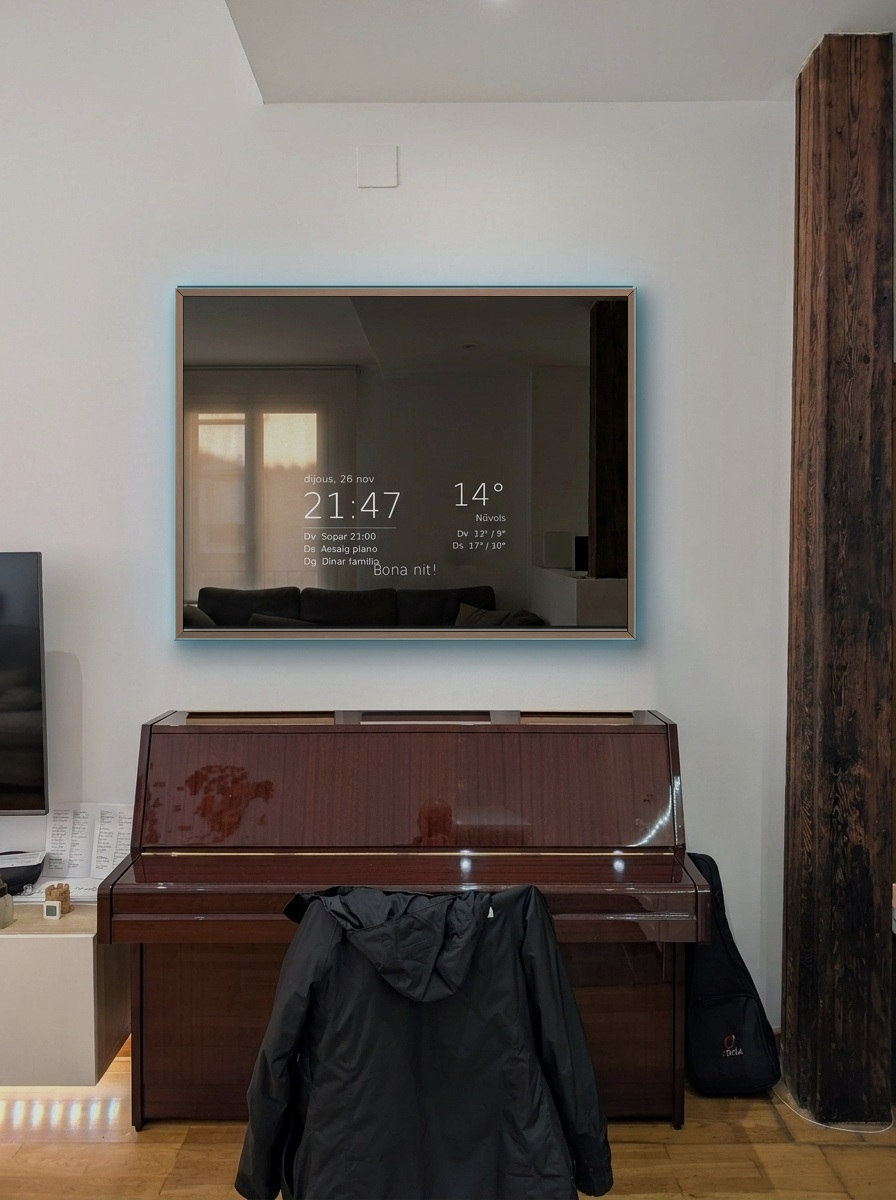
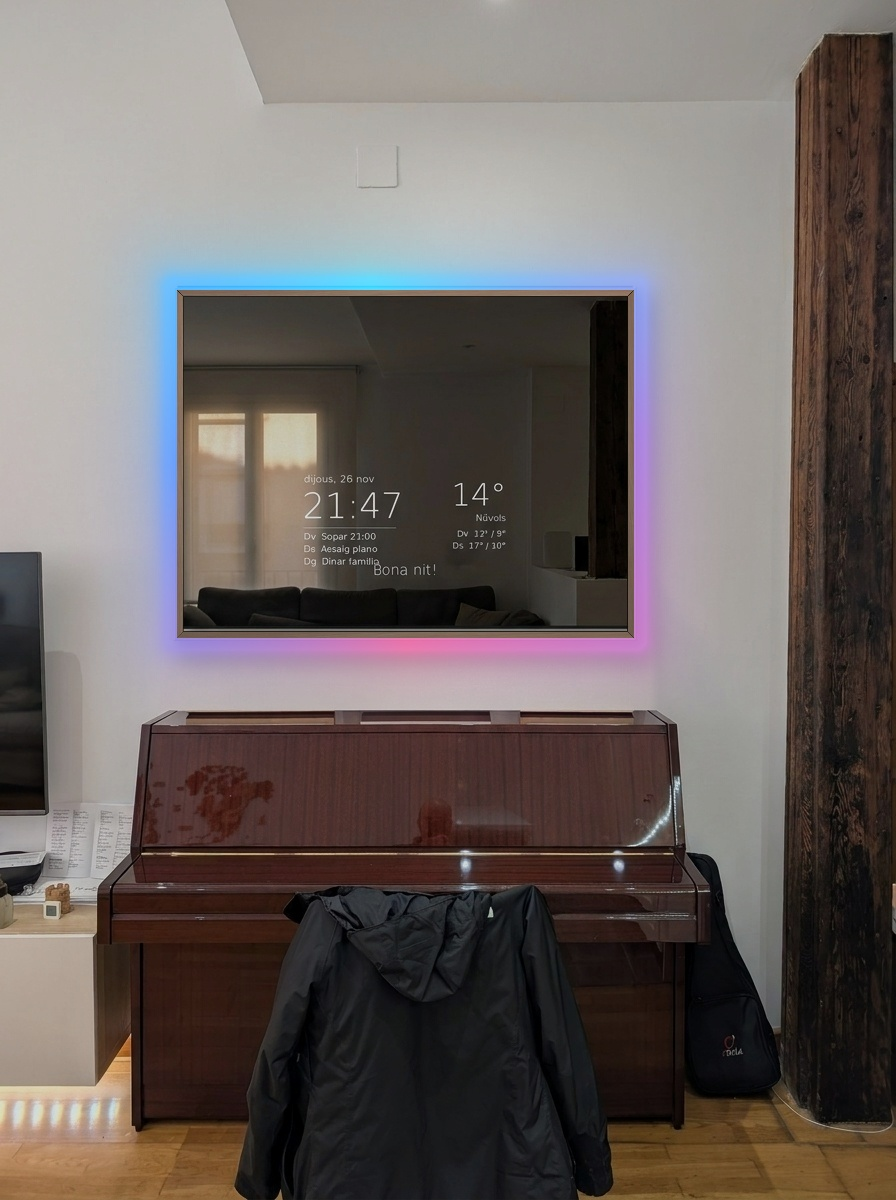
Upgrade AI Thinking halo to Gemini-style orbiting multicolor aura (WLED Colorwaves + 3D + room preview)

Changed region(s): [[0.1562, 0.2158, 0.75, 0.5858]]

diff --git a/build_plan.html b/build_plan.html
@@ -425,7 +425,11 @@
     box-shadow: 0 1px 3px rgba(0, 0, 0, 0.12);
   }
   .mbtn[data-led="warm"].active { color: var(--amber-ink); background: var(--amber-soft); }
-  .mbtn[data-led="think"].active { color: var(--cyan); background: var(--cyan-soft); }
+  .mbtn[data-led="think"].active {
+    color: #ffffff;
+    background: linear-gradient(110deg, #4285f4 0%, #8b5cf6 52%, #d946ef 100%);
+    box-shadow: 0 2px 10px rgba(99, 102, 241, 0.30);
+  }
   .photo-cap {
     font-size: 12.5px;
     color: var(--muted);
@@ -1317,7 +1321,7 @@
         </div>
         <div class="segmented" role="group" aria-label="LED halo preview mode">
           <button class="mbtn active" type="button" data-img="oak_halo_warm.jpg" data-led="warm">☀ Warm 3000K Idle</button>
-          <button class="mbtn" type="button" data-img="oak_halo_think.jpg" data-led="think">✦ Cyan Thinking</button>
+          <button class="mbtn" type="button" data-img="oak_halo_think.jpg" data-led="think">✦ AI Thinking</button>
           <button class="mbtn" type="button" data-img="oak_land_bot_center.jpg" data-led="off">○ LEDs Off</button>
         </div>
         <div class="photo-cap">Mounted +22 cm above piano (frame 124.5–217.5 cm · screen 135.9–169.5 cm). Switching LED modes updates both the room preview and the live 3D model.</div>
@@ -1632,8 +1636,8 @@
       <pre class="code-block" id="curlBlock"># Warm 3000K idle halo (35%):
 curl -X POST http://mirror-led.local/json/state -d &#x27;{&quot;on&quot;:true,&quot;bri&quot;:90,&quot;seg&quot;:[{&quot;fx&quot;:0,&quot;col&quot;:[[0,0,0,255]]}]}&#x27;
 
-# Cyan &quot;listening / thinking&quot; wave:
-curl -X POST http://mirror-led.local/json/state -d &#x27;{&quot;on&quot;:true,&quot;bri&quot;:160,&quot;seg&quot;:[{&quot;fx&quot;:2,&quot;sx&quot;:140,&quot;col&quot;:[[40,210,255,0]]}]}&#x27;
+# Gemini-style multicolor &quot;AI thinking&quot; flowing aura (WLED Colorwaves + custom Blue/Violet/Rose palette):
+curl -X POST http://mirror-led.local/json/state -d &#x27;{&quot;on&quot;:true,&quot;bri&quot;:165,&quot;seg&quot;:[{&quot;fx&quot;:67,&quot;pal&quot;:6,&quot;sx&quot;:135,&quot;ix&quot;:160,&quot;col&quot;:[[66,133,244,0],[155,114,203,0],[217,101,112,0]]}]}&#x27;
 
 # Smooth fade off (room empty):
 curl -X POST http://mirror-led.local/json/state -d &#x27;{&quot;on&quot;:false,&quot;transition&quot;:15}&#x27;</pre>
@@ -2266,7 +2270,7 @@ curl -X POST http://mirror-led.local/json/state -d &#x27;{&quot;on&quot;:false,&
                 <h4>Hang safely on drywall (pladur) &amp; pair Bluetooth bar</h4>
                 <div class="step-badges"><span class='sbadge sbadge-danger'>Drywall: ≥2 studs + toggles</span><span class='sbadge sbadge-sage'>Zero 230V in frame</span></div>
               </div>
-              <ul class="step-bullets"><li>Find vertical metal/wood pladur studs (montantes) with a magnet/stud finder; level the 900 mm wall cleat so the frame lands +22 cm above the 102.5 cm piano (124.5–217.5 cm).</li><li>Anchor the cleat into ≥2 studs with stud screws plus 4× Fischer DuoTec 10 or metal Molly M6 toggles (≥25 kg each).</li><li>Lift mirror onto cleat with 2 people; route the 3 thin low-voltage DC cables down the painted 16 × 8 mm white channel to the 3 power bricks behind the piano.</li><li>Pair Pi 5 Bluetooth to your soundbar beside the piano and test your WLED Warm / Cyan / Off API triggers!</li></ul>
+              <ul class="step-bullets"><li>Find vertical metal/wood pladur studs (montantes) with a magnet/stud finder; level the 900 mm wall cleat so the frame lands +22 cm above the 102.5 cm piano (124.5–217.5 cm).</li><li>Anchor the cleat into ≥2 studs with stud screws plus 4× Fischer DuoTec 10 or metal Molly M6 toggles (≥25 kg each).</li><li>Lift mirror onto cleat with 2 people; route the 3 thin low-voltage DC cables down the painted 16 × 8 mm white channel to the 3 power bricks behind the piano.</li><li>Pair Pi 5 Bluetooth to your soundbar beside the piano and test your WLED Warm / Multicolor AI / Off API triggers!</li></ul>
             </div>
           </article></div>
       </div>
@@ -2583,7 +2587,45 @@ try {
     return tex;
   }
   const warmHaloTex = createHaloTexture("rgba(255, 160, 36, 1.0)", "rgba(255, 184, 72, 0.92)");
-  const cyanHaloTex = createHaloTexture("rgba(32, 200, 255, 1.0)", "rgba(86, 224, 255, 0.90)");
+
+  // Animated Gemini-style multicolor orbiting halo canvas texture (Blue -> Cyan -> Violet -> Magenta-Rose)
+  const geminiCanvas = document.createElement("canvas");
+  geminiCanvas.width = 512;
+  geminiCanvas.height = 400;
+  const geminiCtx = geminiCanvas.getContext("2d");
+  const geminiHaloTex = new THREE.CanvasTexture(geminiCanvas);
+  geminiHaloTex.colorSpace = THREE.SRGBColorSpace;
+
+  function drawGeminiHalo(phase) {
+    const w = geminiCanvas.width, h = geminiCanvas.height;
+    const cx = w / 2, cy = h / 2, padX = 58, padY = 52;
+    geminiCtx.clearRect(0, 0, w, h);
+    let grad;
+    if (typeof geminiCtx.createConicGradient === "function") {
+      grad = geminiCtx.createConicGradient(phase, cx, cy);
+    } else {
+      const dx = Math.cos(phase) * w * 0.5, dy = Math.sin(phase) * h * 0.5;
+      grad = geminiCtx.createLinearGradient(cx - dx, cy - dy, cx + dx, cy + dy);
+    }
+    grad.addColorStop(0.00, "rgba(66, 133, 244, 0.98)");   // Gemini Blue
+    grad.addColorStop(0.24, "rgba(42, 205, 250, 0.95)");   // Cyan
+    grad.addColorStop(0.50, "rgba(155, 114, 215, 0.98)");  // Violet
+    grad.addColorStop(0.76, "rgba(224, 96, 156, 0.95)");   // Magenta-Rose
+    grad.addColorStop(1.00, "rgba(66, 133, 244, 0.98)");   // Wrap Blue
+
+    geminiCtx.save();
+    geminiCtx.filter = "blur(24px)";
+    geminiCtx.strokeStyle = grad;
+    geminiCtx.lineWidth = 42;
+    geminiCtx.strokeRect(padX, padY, w - padX * 2, h - padY * 2);
+    geminiCtx.filter = "blur(8px)";
+    geminiCtx.lineWidth = 18;
+    geminiCtx.strokeRect(padX, padY, w - padX * 2, h - padY * 2);
+    geminiCtx.restore();
+    geminiHaloTex.needsUpdate = true;
+  }
+  drawGeminiHalo(0);
+
   const haloGlowMat = new THREE.MeshBasicMaterial({
     map: warmHaloTex,
     transparent: true,
@@ -2714,12 +2756,13 @@ try {
       haloGlowMat.opacity = 0.92;
       haloGlowMat.needsUpdate = true;
     } else if (mode === "think") {
-      ledMat.emissive.setHex(0x28c8ff);
+      drawGeminiHalo(clock * 0.75);
+      ledMat.emissive.setHex(0x6b7cff);
       ledMat.emissiveIntensity = 2.5;
-      haloLight.color.setHex(0x38bdf8);
-      haloLight.intensity = 1.8;
-      haloGlowMat.map = cyanHaloTex;
-      haloGlowMat.opacity = 0.95;
+      haloLight.color.setHex(0x7c8cff);
+      haloLight.intensity = 1.9;
+      haloGlowMat.map = geminiHaloTex;
+      haloGlowMat.opacity = 0.96;
       haloGlowMat.needsUpdate = true;
     } else {
       ledMat.emissiveIntensity = 0.0;
@@ -2858,14 +2901,30 @@ try {
   window.addEventListener("resize", handleResize);
 
   let clock = 0;
+  let frameTick = 0;
+  const geminiPalette = [
+    new THREE.Color(0x4285f4),
+    new THREE.Color(0x2acdfa),
+    new THREE.Color(0x9b72d7),
+    new THREE.Color(0xe0609c),
+  ];
+  const tmpColor = new THREE.Color();
   function loop() {
     requestAnimationFrame(loop);
     clock += 0.04;
+    frameTick += 1;
     if (pulseMode === "think") {
-      const s = Math.sin(clock * 2.2);
-      ledMat.emissiveIntensity = 1.6 + 1.0 * s;
-      haloLight.intensity = 1.0 + 0.8 * s;
-      haloGlowMat.opacity = 0.62 + 0.35 * s;
+      if (frameTick % 2 === 0) drawGeminiHalo(clock * 0.75);
+      const t = (clock * 0.35) % geminiPalette.length;
+      const i0 = Math.floor(t);
+      const i1 = (i0 + 1) % geminiPalette.length;
+      tmpColor.lerpColors(geminiPalette[i0], geminiPalette[i1], t - i0);
+      ledMat.emissive.copy(tmpColor);
+      haloLight.color.copy(tmpColor);
+      const s = Math.sin(clock * 1.8);
+      ledMat.emissiveIntensity = 1.9 + 0.7 * s;
+      haloLight.intensity = 1.3 + 0.55 * s;
+      haloGlowMat.opacity = 0.84 + 0.14 * s;
     }
     if (anim) {
       anim.k = Math.min(1, anim.k + 0.06);
